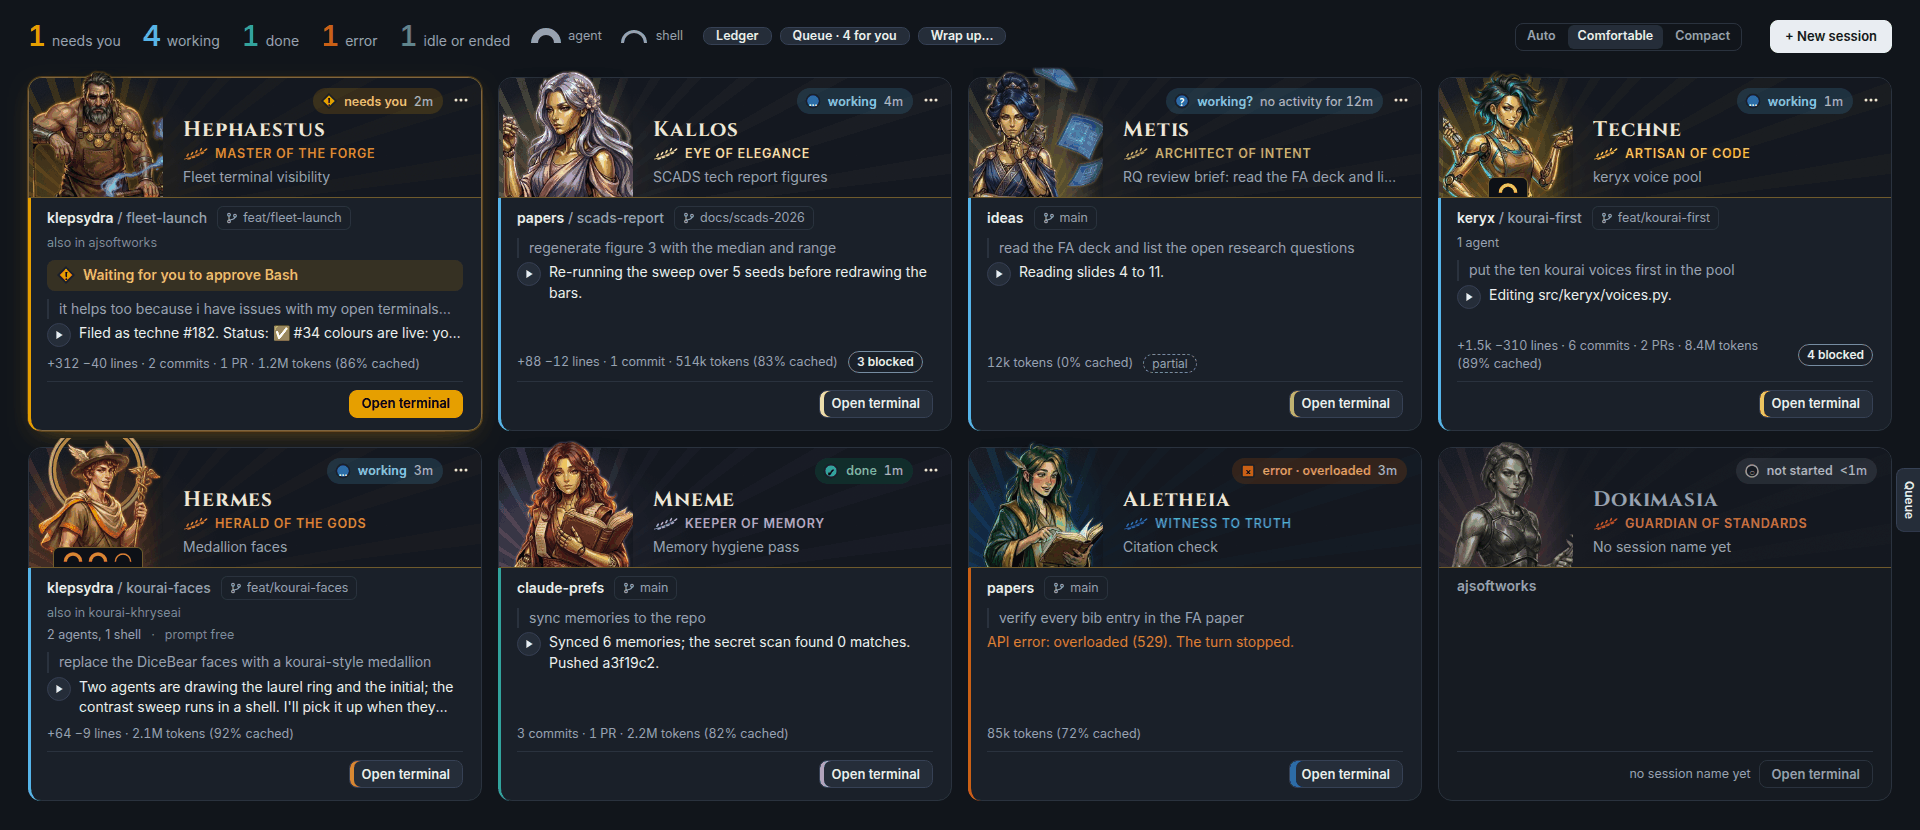
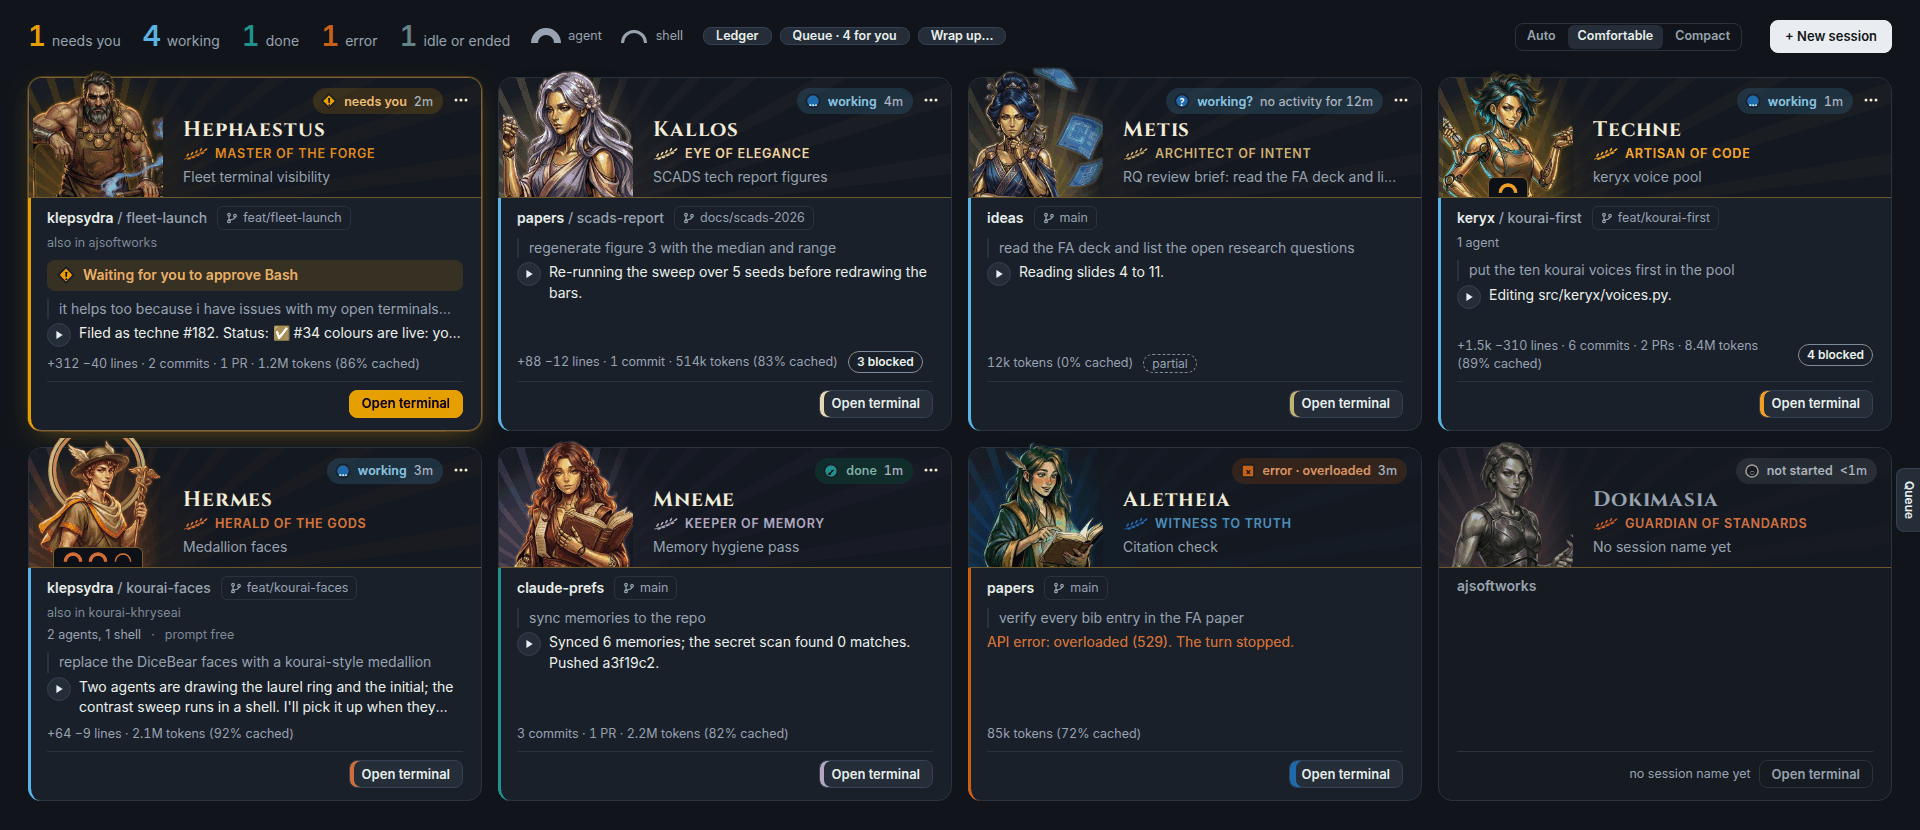
README: the phone wall at iPhone size, from the real phone server

Changed region(s): [[0.0312, 0.6024, 0.0625, 0.6325]]

diff --git a/scripts/readme-shots.py b/scripts/readme-shots.py
@@ -20,6 +20,7 @@ import pathlib
 import sys
 import threading
 import io
+import tempfile
 import time
 
 import oxipng
@@ -27,6 +28,8 @@ from PIL import Image
 from playwright.sync_api import sync_playwright
 
 ROOT = pathlib.Path(__file__).resolve().parent.parent
+sys.path.insert(0, str(ROOT / "scripts"))
+import test_phone_browser as phone  # noqa: E402  the phone suite's server and demo data
 OUT = ROOT / "assets"
 SETTLE_MS = 600  # past the wall's resize settle, arrivals and a frame
 
@@ -164,6 +167,27 @@ def main():
         page = wall(browser, port, 1920, 1000, "demo=8&wrapup", "comfortable")
         save(page.screenshot(clip=page.evaluate(CARDS)), "wrap-up")
         page.close()
+
+        # The phone wall, served by the real phone server, at iPhone size:
+        # the usage gauges, the tally and the first cards.
+        with tempfile.TemporaryDirectory(prefix="klepsydra-shots-") as tmp:
+            snapshot = pathlib.Path(tmp) / "fleet.json"
+            phone.snapshot_file(snapshot)
+            proc, addr = phone.start_server(snapshot)
+            # After the build, so the countdowns read as written.
+            phone.demo_usage(pathlib.Path(tmp) / "klepsydra")
+            try:
+                ctx = browser.new_context(viewport={"width": 390, "height": 844}, device_scale_factor=2,
+                                          is_mobile=True, has_touch=True)
+                page = ctx.new_page()
+                page.goto(f"http://{addr}/")
+                phone.wait_until(page, "document.getElementById('wall').children.length > 0", 15)
+                phone.wait_until(page, "document.querySelectorAll('.limits .limit-rows > li').length > 0", 15)
+                page.wait_for_timeout(SETTLE_MS)
+                save(page.screenshot(), "phone-wall")
+                ctx.close()
+            finally:
+                proc.kill()
 
         browser.close()
     server.shutdown()

diff --git a/README.md b/README.md
@@ -839,6 +839,10 @@ the gauge's own code from the same readings, read every 5 seconds. They
 scroll away under the tally, and say so while no reading exists. The wall
 stays dark when the phone is in light mode.
 
+<p align="center">
+  <img src="assets/phone-wall.png" alt="The phone wall at iPhone width: rings for the Personal and Team accounts' usage, the tally (3 needs you, 8 working, 2 done, 1 error, 2 idle or ended), then the needs-you cards, each with its portrait, task, repo and branch, the ask, the last exchange and a play button" width="300">
+</p>
+
 The server answers only GET and HEAD, serves only the wall's own files, its
 snapshot at `/fleet.json`, the stream at `/events` and the reply clips of the
 cards it shows. It sends each session without its tmux pane, process or full
